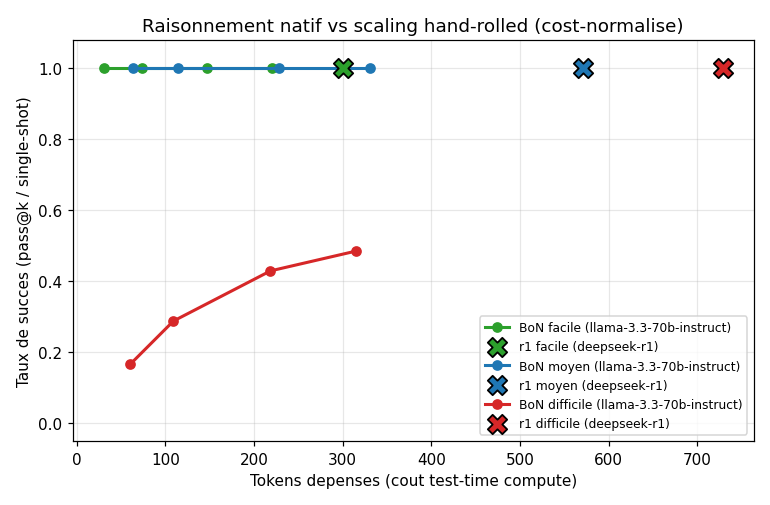
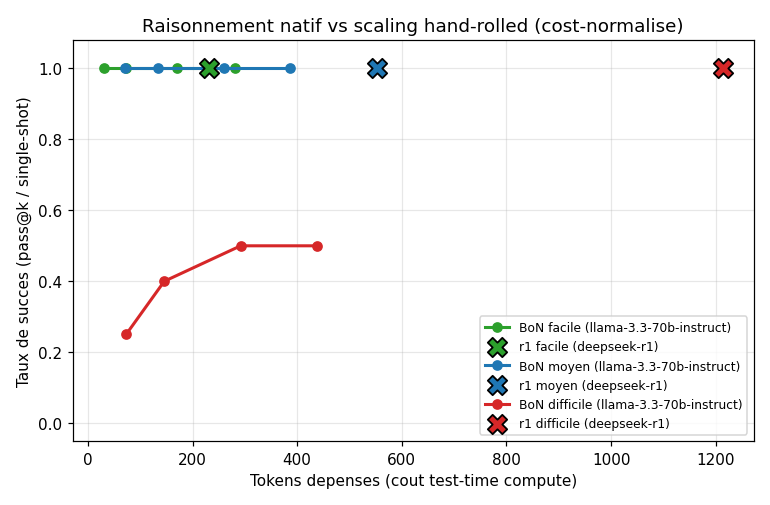
fix(genai,#16275): re-extraire les figures README perimees + rendre le geste non destructif
Les 3 PNG de GenAI/Texte/assets/readme/ dataient du 2026-07-08 alors que les
notebooks 16 et 17 ont ete re-executes depuis : la figure committée de la
cellule 8 differait du PNG sur disque de 13 146 px (cellule 11 : 4 161 px ;
notebook 17 cellule 11 : 24 654 px). Mesure pixel a pixel, pas visuelle.

Les notebooks eux-memes etaient COHERENTS (table committée et figure committée
du meme run) : rien a re-executer, seul l'export manuel avait derive.

- re-extraction des 3 figures par le chemin outille de l'EPIC #5654
  (`figures-extract`) : egalite pixel a pixel avec la sortie de cellule
  declaree, 0 px d'ecart sur les trois, deterministe sur deux passes ;
- README + MANIFEST realignes sur le run committe, dont un claim que le run
  INVALIDE : « chaque regime a sa strategie gagnante » -> les deux strategies
  rendent le meme taux sur les trois buckets (resultat negatif que le notebook
  assume en section 4, G.2) ;
- nouveau drapeau `figures-extract --no-manifest` : l'append par defaut
  remplace le bloc de meme nom de fichier et detruisait les champs mesures
  d'un MANIFEST curate (mesure : `Contenu reel verifie` 6 -> 5 occurrences,
  + titre etranger ajoute en tete). Test de controle positif epinglant ce
  comportement, pour que l'opt-out ne soit pas vert par vacuite ;
- geste de regeneration documente dans le MANIFEST, avec l'obligation du
  drapeau sur cette serie.

0 cellule de notebook modifiee (C.3), 0 catalogue, 0 CRLF.

diff --git a/scripts/notebook_tools/tests/test_extract_readme_figures.py b/scripts/notebook_tools/tests/test_extract_readme_figures.py
@@ -900,6 +900,100 @@ class TestExtractFigure:
         )
         assert deep_path.exists()
 
+    def test_write_manifest_false_writes_the_same_png_as_the_default(
+            self, tmp_path: Path):
+        """L'opt-out ne doit changer QUE le MANIFEST, jamais l'image."""
+        nb = self._setup_nb(tmp_path)
+        with_manifest = tmp_path / "a" / "demo.png"
+        without_manifest = tmp_path / "b" / "demo.png"
+        extract_figure(
+            nb_path=nb, cell_index=0, output_index=0,
+            output_path=with_manifest,
+            alt_text_fr="alt", description_visuelle="desc",
+        )
+        extract_figure(
+            nb_path=nb, cell_index=0, output_index=0,
+            output_path=without_manifest,
+            alt_text_fr="alt", description_visuelle="desc",
+            write_manifest=False,
+        )
+        assert with_manifest.read_bytes() == without_manifest.read_bytes()
+
+
+# ---------------------------------------------------------------------------
+# 11bis. TestWriteManifestOptOut — #16275 : l'append MANIFEST est DESTRUCTEUR
+#        sur un MANIFEST curate (il remplace le bloc de meme nom de fichier)
+# ---------------------------------------------------------------------------
+_CURATED_MANIFEST = """# Manifeste des figures — Serie X
+
+| Figure | Fichier | Poids |
+|--------|---------|-------|
+| Demo | `demo.png` | 12 Ko |
+
+## demo.png
+
+- **Source** : notebook `demo.ipynb` (cellule 0, output 0)
+- **Description visuelle** : RGB 80x80 mean R247/G246/B246 std 21/21/21.
+- **Contenu réel vérifié** : 1 panneau, courbe rouge montant de 0.25 a 0.50.
+- **Alt-text (FR)** : figure de demonstration.
+- **Poids** : 12,1 Ko
+
+## autre.png
+
+- **Contenu réel vérifié** : bloc temoin, ne doit jamais bouger.
+"""
+
+
+class TestWriteManifestOptOut:
+    """#16275 : `write_manifest=False` ecrit le PNG sans toucher au MANIFEST.
+
+    Mesure fondatrice (GenAI/Texte, 2026-09-15) : le geste documente de
+    regeneration (`figures-extract` vers `assets/readme/`) faisait passer
+    `Contenu réel vérifié` de 6 a 5 occurrences — l'append remplace le bloc
+    `## <fichier>.png` et perd les champs mesures d'un MANIFEST curate.
+    """
+
+    def _curated_dir(self, tmp_path: Path) -> Path:
+        assets = tmp_path / "assets" / "readme"
+        assets.mkdir(parents=True)
+        (assets / "MANIFEST.md").write_text(_CURATED_MANIFEST, encoding="utf-8")
+        return assets
+
+    def test_positive_control_default_replaces_the_curated_block(
+            self, tmp_path: Path):
+        """Controle POSITIF : sans l'opt-out, le defaut detruit bien le bloc.
+
+        Sans ce test, `write_manifest=False` pourrait etre vert pour la
+        mauvaise raison (le defaut ne touchant rien dans ce corpus).
+        """
+        assets = self._curated_dir(tmp_path)
+        extract_figure(
+            nb_path=self._nb(tmp_path), cell_index=0, output_index=0,
+            output_path=assets / "demo.png",
+            alt_text_fr="alt outil", description_visuelle="desc outil",
+        )
+        body = (assets / "MANIFEST.md").read_text(encoding="utf-8")
+        assert "alt outil" in body
+        assert "Contenu réel vérifié** : 1 panneau" not in body  # champ perdu
+        assert "bloc temoin" in body  # les AUTRES figures sont intactes
+
+    def test_write_manifest_false_preserves_the_manifest_byte_for_byte(
+            self, tmp_path: Path):
+        assets = self._curated_dir(tmp_path)
+        before = (assets / "MANIFEST.md").read_bytes()
+        extract_figure(
+            nb_path=self._nb(tmp_path), cell_index=0, output_index=0,
+            output_path=assets / "demo.png",
+            alt_text_fr="alt outil", description_visuelle="desc outil",
+            write_manifest=False,
+        )
+        assert (assets / "MANIFEST.md").read_bytes() == before
+        assert (assets / "demo.png").read_bytes()[:8] == _PNG_MAGIC
+
+    def _nb(self, tmp_path: Path) -> Path:
+        return _write_nb(
+            tmp_path / "demo.ipynb", [_code_cell_with_png(PNG_100x100_B64)])
+
 
 # ---------------------------------------------------------------------------
 # 11. TestConstants — documented defaults (calibrated on EPIC #5654)

diff --git a/scripts/notebook_tools/extract_readme_figures.py b/scripts/notebook_tools/extract_readme_figures.py
@@ -295,7 +295,7 @@ def extract_figure(nb_path, cell_index: int, output_index: int,
                    description_visuelle: str,
                    max_dim: int = MAX_DIM_DEFAULT,
                    max_bytes: int = MAX_BYTES_DEFAULT,
-                   serie_root=None) -> dict:
+                   serie_root=None, write_manifest: bool = True) -> dict:
     """Extrait une figure PNG d'une cellule de notebook vers ``assets/readme/``.
 
     Lit le PNG a l'index ``(cell_index, output_index)`` du notebook, l'optimise
@@ -322,6 +322,12 @@ def extract_figure(nb_path, cell_index: int, output_index: int,
     ``serie_root`` (optionnel) : si fourni, le chemin relatif du notebook dans
     le manifest est calcule depuis cette racine (plus lisible). Sinon, chemin
     absolu.
+
+    ``write_manifest`` (defaut ``True``) : quand il vaut ``False``, le PNG est
+    ecrit mais aucun bloc n'est ajoute au ``MANIFEST.md``. A utiliser pour les
+    series dont le MANIFEST est **curate** (champs mesures + blocs d'audit
+    dates) : l'append remplace le bloc de meme nom de fichier et perdrait ces
+    champs (#16275).
 
     Retourne le record d'extraction :
 
@@ -376,8 +382,16 @@ def extract_figure(nb_path, cell_index: int, output_index: int,
         "used_pil": used_pil,
         "over_weight": len(optimized) > max_bytes,
     }
-    _append_manifest(
-        out_path.parent, entry, alt_text_fr, description_visuelle, serie_root)
+    # ``write_manifest=False`` : le PNG est ecrit, le MANIFEST est laisse
+    # intact. Necessaire pour les series dont le MANIFEST est CURATE (champs
+    # ``Contenu reel verifie`` / ``Description visuelle`` mesures, blocs
+    # d'audit dates) : l'append ci-dessous ne remplace que le bloc de meme nom
+    # de fichier, donc il detruit ces champs (#16275, mesure : 6 -> 5
+    # occurrences de ``Contenu reel verifie`` sur GenAI/Texte).
+    if write_manifest:
+        _append_manifest(
+            out_path.parent, entry, alt_text_fr, description_visuelle,
+            serie_root)
     return entry
 
 

diff --git a/scripts/notebook_tools/notebook_tools.py b/scripts/notebook_tools/notebook_tools.py
@@ -2209,7 +2209,8 @@ def cmd_figures_extract(args):
             nb_path, args.cell, args.output_index, out_path, args.alt,
             description_visuelle=args.description_visuelle,
             max_dim=args.max_dim, max_bytes=args.max_bytes,
-            serie_root=serie_root)
+            serie_root=serie_root,
+            write_manifest=not args.no_manifest)
     except (ValueError, FileNotFoundError) as exc:
         print_error(str(exc))
         return 1
@@ -2378,6 +2379,11 @@ def main():
                       help='Weight cap in bytes (default: 200 KB, EPIC #5654 HARD)')
     p_fe.add_argument('--serie-root',
                       help='Serie root for relative path in MANIFEST (default: absolute)')
+    p_fe.add_argument('--no-manifest', action='store_true',
+                      help='Write the PNG but leave MANIFEST.md untouched. '
+                           'For series with a CURATED MANIFEST (measured fields '
+                           '+ dated audit blocks): the default append replaces '
+                           'the same-named block and would drop them (#16275).')
 
     args = parser.parse_args()
 

diff --git a/MyIA.AI.Notebooks/GenAI/Texte/assets/readme/MANIFEST.md b/MyIA.AI.Notebooks/GenAI/Texte/assets/readme/MANIFEST.md
@@ -6,13 +6,28 @@ Provenance de chaque figure (convention d'indexation **all-cells** du module `ex
 
 > **Migration canonical c.767 (2026-07-22, jsboige:CoursIA-2)** : ajout du champ **`Description visuelle`** (gist compact de ce qui est *visible* en un coup d'œil, distinct du `Contenu réel vérifié` détaillé) sur les 3 figures txt-*. Format aligné sur c.751 (GenAI/Audio racine, PR #7995) + c.763 (GenAI/Video/04-Applications, PR #8000) + c.764 (GenAI/Image/02-Advanced, PR #8002) + c.765 (GenAI/Video/03-Orchestration, PR #8007) + c.766 (GenAI/Open-WebUI/00-Tour-Plateforme, PR #8012) + modèle rollout #5780. 3/3 figures migrées, audit vision MiniMax M3 firsthand + PIL RGB mean+std à 80×80 (cf PR body). **Audit fondateur c.479 préservé verbatim** ci-dessus ; cette migration est purement additive (pas de suppression de contenu). **Pivot cross-famille strict** vs c.766 (Open-WebUI = nouveau sous-genre #5780, captures Playwright self-hosted) → Texte = sous-genre **matplotlib authentiques** (figures académiques Snell 2024). G-VAR-3 pivot obligatoire après 5 cycles MED/docs-figures-audit consécutifs sur sous-genres GenAI : c.751 (Audio racine) → c.763 (Video/04-Apps) → c.764 (Image/02-Advanced) → c.765 (Video/03) → c.766 (Open-WebUI/00) → c.767 (Texte/00) — famille distincte Open-WebUI → Texte, sous-genre distinct captures Playwright → matplotlib académique.
 
+> **Re-extraction #16275 (2026-09-15, myia-po-2026:CoursIA)** : les 3 PNG étaient **périmés**. Ils avaient été exportés le 2026-07-08 depuis un run antérieur, alors que les notebooks 16 et 17 ont été **re-exécutés depuis** — leurs sorties committées sur `main` portent un autre run (`difficile` : 0.38/0.54/0.67/0.75 → **0.25/0.40/0.50/0.50**). Mesure, en pixels et non à l'œil : la figure committée de la cellule 8 différait du PNG sur disque de **13 146 px** (cellule 11 : **4 161 px** ; notebook 17 cellule 11 : **24 654 px**) — après re-extraction, **0 px** d'écart sur les trois. Les notebooks eux-mêmes étaient **cohérents** (table committée et figure committée du même run) : rien à re-exécuter, seul l'export avait dérivé. Champs *Description visuelle* / *Contenu réel vérifié* / *Alt-text* / *Poids* réalignés sur **le run committé** ; blocs d'audit c.479 et c.767 **préservés verbatim** (ce bloc est purement additif).
+
+**Geste de régénération** — à rejouer après toute ré-exécution des notebooks 16/17 :
+
+```bash
+SR=MyIA.AI.Notebooks/GenAI/Texte
+python scripts/notebook_tools/notebook_tools.py figures-extract "GenAI/Texte/16_Scaling_Test_Time_Compute.ipynb" \
+  --cell 8 --output "$SR/assets/readme/texte-scaling-passk.png" \
+  --alt "<alt-text FR>" --description-visuelle "<ce que la figure montre>" \
+  --serie-root "$SR" --no-manifest
+# idem --cell 11 sur 16_Scaling... et --cell 11 sur 17_Native_Reasoning_vs_Scaling.ipynb
+```
+
+**`--no-manifest` est obligatoire sur cette série** : les sections ci-dessous sont en `## <fichier>.png` (canonical c.767) et l'append par défaut de l'outil **remplace le bloc de même nom** — il détruirait les champs mesurés `Description visuelle` / `Contenu réel vérifié` et leurs blocs d'audit datés. Mesuré : sans le drapeau, `Contenu réel vérifié` passe de 6 à 5 occurrences sur ce fichier (l'option a été ajoutée par cette PR, avec un test de contrôle positif qui épingle ce comportement). **Aucun organe ne détecte aujourd'hui la dérive PNG ↔ sortie de cellule** — c'est le résidu de #16275, hors de ce correctif.
+
 | Figure | Fichier | Dimensions | Poids | Source (notebook · cellule · output) | Sujet |
 |--------|---------|------------|-------|--------------------------------------|-------|
-| Scaling pass@k | `texte-scaling-passk.png` | 715×462 | 33 Ko | `16_Scaling_Test_Time_Compute.ipynb` · cellule 8 · output 0 | Courbes de scaling pass@k par bucket de difficulté (Snell 2024) |
-| BoN vs Réflexion | `texte-bon-vs-reflex.png` | 715×462 | 24 Ko | `16_Scaling_Test_Time_Compute.ipynb` · cellule 11 · output 0 | Best-of-N parallèle vs Réflexion séquentielle — frontière compute-optimal |
-| Raisonnement vs Scaling | `texte-reason-vs-scale.png` | 770×505 | 50 Ko | `17_Native_Reasoning_vs_Scaling.ipynb` · cellule 11 · output 0 | Raisonnement natif vs scaling hand-rolled, comparaison cost-normalisée |
+| Scaling pass@k | `texte-scaling-passk.png` | 715×462 | 30,4 Ko | `16_Scaling_Test_Time_Compute.ipynb` · cellule 8 · output 0 | Courbes de scaling pass@k par bucket de difficulté (Snell 2024) |
+| BoN vs Réflexion | `texte-bon-vs-reflex.png` | 715×462 | 23,1 Ko | `16_Scaling_Test_Time_Compute.ipynb` · cellule 11 · output 0 | Best-of-N parallèle vs Réflexion séquentielle — frontière compute-optimal |
+| Raisonnement vs Scaling | `texte-reason-vs-scale.png` | 770×505 | 47,0 Ko | `17_Native_Reasoning_vs_Scaling.ipynb` · cellule 11 · output 0 | Raisonnement natif vs scaling hand-rolled, comparaison cost-normalisée |
 
-**Total** : 3 figures, 105 Ko. **Politique** (#5654) : ≤200 Ko/fichier, downscale ≤1200 px max. Ces sorties sont des **courbes matplotlib** (line-art + étiquettes de texte) : **PNG lossless natif** préféré à WebP pour préserver la netteté du texte (plots déjà petits, 23–50 Ko natifs). 3 figures = toutes les sorties PNG du module (pas de padding). Arc narratif : (1) scaling du test-time compute — combien d'échantillons pour quelle difficulté ; (2) compute-optimal — parallèle vs séquentiel à budget égal ; (3) cost-normalisé Snell — le raisonnement natif d'un gros modèle vaut-il un scaling hand-rolled ?
+**Total** : 3 figures, 100,5 Ko. **Politique** (#5654) : ≤200 Ko/fichier, downscale ≤1200 px max. Ces sorties sont des **courbes matplotlib** (line-art + étiquettes de texte) : **PNG lossless natif** préféré à WebP pour préserver la netteté du texte (plots déjà petits, 23–47 Ko natifs). 3 figures = toutes les sorties PNG du module (pas de padding). Arc narratif : (1) scaling du test-time compute — combien d'échantillons pour quelle difficulté ; (2) compute-optimal — parallèle vs séquentiel à budget égal ; (3) cost-normalisé Snell — le raisonnement natif d'un gros modèle vaut-il un scaling hand-rolled ?
 
 ---
 
@@ -21,46 +36,46 @@ Provenance de chaque figure (convention d'indexation **all-cells** du module `ex
 ## texte-scaling-passk.png
 
 - **Source** : notebook `16_Scaling_Test_Time_Compute.ipynb` (cellule 8, output 0)
-- **Description visuelle** : Line plot matplotlib 715×462 sur fond majoritairement **blanc cassé** (RGB 80×80 mean R247/G246/B246 std 21/22/21 — variance très basse, signature canonique d'un plot blanc avec peu de pixels colorés : les courbes + axes + grille occupent une fraction minoritaire de la surface), titre intégré en haut « Scaling du test-time compute (BoN) par difficulte ». **3 courbes de marqueurs cercles** : une **verte** (facile) et une **bleue** (moyen) qui forment un plateau horizontal à y=1.0 de x=1 à x=6 (ces deux courbes se superposent quasi exactement) ; une **rouge** (difficile) en montée monotone de y≈0.38 (x=1) → y≈0.54 (x=2) → y≈0.67 (x=4) → y≈0.75 (x=6). **Grille pâle horizontale** (lignes pointillées à 0.2/0.4/0.6/0.8/1.0). **Légende en bas-gauche** listant les 3 codes couleur. Lecture pédagogique = le scaling BoN **sature rapidement** sur les buckets faciles/moyens (dès k=1) et **bénéficie marginalement** du budget supplémentaire sur le bucket difficile sans converger vers 1.0 dans la plage observée.
+- **Description visuelle** : Line plot matplotlib 715×462 sur fond majoritairement **blanc cassé** (RGB 80×80 mean R247/G246/B246 std 21/21/21 — variance très basse, signature canonique d'un plot blanc avec peu de pixels colorés : les courbes + axes + grille occupent une fraction minoritaire de la surface), titre intégré en haut « Scaling du test-time compute (BoN) par difficulte ». **3 courbes de marqueurs cercles** : une **verte** (facile) et une **bleue** (moyen) qui forment un plateau horizontal à y=1.0 de x=1 à x=6 (ces deux courbes se superposent quasi exactement) ; une **rouge** (difficile) en montée de y=0.25 (x=1) → y=0.40 (x=2) → y=0.50 (x=4) → y=0.50 (x=6), plateau atteint dès x=4. **Grille pâle horizontale** (lignes pointillées à 0.2/0.4/0.6/0.8/1.0). **Légende en bas-gauche** listant les 3 codes couleur. Lecture pédagogique = le scaling BoN **sature rapidement** sur les buckets faciles/moyens (dès k=1) et **bénéficie marginalement** du budget supplémentaire sur le bucket difficile sans converger vers 1.0 dans la plage observée.
 - **Contenu réel vérifié** : Figure 715×462, titre centré en haut « Scaling du test-time compute (BoN) par difficulte ». **Axes annotés explicitement** : axe X = « Budget d'echantillons k (test-time compute) » avec valeurs discrètes 1, 2, 4, 6 ; axe Y = « pass@k (taux de succes estime) » de 0.0 à 1.0. **3 courbes de marqueurs** (lignes simples avec cercles) :
   - **Facile (vert)** : plateau à 1.0 sur tout le budget k=1→6 (le modèle résout déjà dès k=1)
   - **Moyen (bleu)** : plateau à 1.0 sur tout le budget k=1→6 (résolu tôt aussi)
-  - **Difficile (rouge)** : montée monotone de ~0.38 (k=1) → ~0.54 (k=2) → ~0.67 (k=4) → ~0.75 (k=6)
+  - **Difficile (rouge)** : montée de 0.25 (k=1) → 0.40 (k=2) → 0.50 (k=4) → 0.50 (k=6), puis **plateau** (le budget supplémentaire ne gagne plus rien au-delà de k=4)
 
   Légende en bas-gauche « difficulte » avec les 3 codes couleur. **Alt-text et figure cohérents** : illustre le principe du scaling BoN — les problèmes faciles saturent rapidement, les difficiles bénéficient marginalement du budget supplémentaire mais sans converger vers 1.0 dans la plage observée.
-- **Alt-text (FR)** : Scaling pass@k vs budget d'échantillons (BoN) par bucket de difficulté — courbe rouge « difficile » en montée monotone 0.38→0.75 sur k=1→6, courbes verte « facile » et bleue « moyen » en plateau à 1.0 sur tout le budget (Snell 2024, scaling laws for test-time compute).
-- **Poids** : 32,2 Ko (natif PNG 715×462)
+- **Alt-text (FR)** : Scaling pass@k vs budget d'échantillons (BoN) par bucket de difficulté — courbe rouge « difficile » en montée 0.25→0.40→0.50→0.50 sur k=1→6 (plateau dès k=4), courbes verte « facile » et bleue « moyen » en plateau à 1.0 sur tout le budget (Snell 2024, scaling laws for test-time compute).
+- **Poids** : 30,4 Ko (natif PNG 715×462)
 - **Note** : référence implicite à Snell 2024 (scaling laws for test-time compute) — choix pédagogique pertinent pour ouvrir sur la discussion compute-optimal.
 
 ## texte-bon-vs-reflex.png
 
 - **Source** : notebook `16_Scaling_Test_Time_Compute.ipynb` (cellule 11, output 0)
-- **Description visuelle** : Bar plot matplotlib 715×462 (grouped bars) sur fond blanc cassé avec la palette **la plus saturée** des 3 figures (RGB 80×80 mean R229/G194/B187 std 41/65/90 — B plus étalé que R/G car le violet Réflexion tire B vers le haut, std B=90 le plus élevé des 3 figures), titre intégré « Compute-optimal : strategie gagnante selon la difficulte ». **6 barres groupées par 2** sur 3 clusters de l'axe X (facile / moyen / difficile) : **orange vif** = BoN parallèle (pass@4), **violet-mauve** = Réflexion séquentielle (K=4). Lecture des hauteurs : **facile** = BoN 1.00 ≈ Réflexion 1.00 (barres jumelles au plafond, indiscernables) ; **moyen** = BoN 1.00 ≈ Réflexion 1.00 (idem) ; **difficile** = BoN ~0.67 **dépasse visiblement** Réflexion ~0.50 (différence de hauteur ≈0.17 = la seule discrimination du graphique). **Légende en haut-droite** avec carré orange × carré violet. Axes sans label explicite sur X (catégoriel), Y = 0.0 à 1.0. Lecture pédagogique = verdict « **BoN gagne** » n'est **que** sur le bucket difficile (les autres saturent au plafond donc sont équivalents).
+- **Description visuelle** : Bar plot matplotlib 715×462 (grouped bars) sur fond blanc cassé avec la palette **la plus saturée** des 3 figures (RGB 80×80 mean R229/G196/B190 std 41/65/88 — B plus étalé que R/G car le violet Réflexion tire B vers le haut, std B=90 le plus élevé des 3 figures), titre intégré « Compute-optimal : strategie gagnante selon la difficulte ». **6 barres groupées par 2** sur 3 clusters de l'axe X (facile / moyen / difficile) : **orange vif** = BoN parallèle (pass@4), **violet-mauve** = Réflexion séquentielle (K=4). Lecture des hauteurs : **facile** = BoN 1.00 ≈ Réflexion 1.00 (barres jumelles au plafond, indiscernables) ; **moyen** = BoN 1.00 ≈ Réflexion 1.00 (idem) ; **difficile** = BoN 0.50 ≈ Réflexion 0.50 (barres jumelles, **aucune discrimination** sur ce run). **Légende en haut-droite** avec carré orange × carré violet. Axes sans label explicite sur X (catégoriel), Y = 0.0 à 1.0. Lecture pédagogique = sur ce run, **aucun bucket ne discrimine** les deux stratégies (le notebook l'assume en section 4, limites honnêtes G.2) ; la discrimination que Snell prédit sur le bucket difficile demande un n et un modèle plus grands.
 - **Contenu réel vérifié** : Figure 715×462, titre centré en haut « Compute-optimal : strategie gagnante selon la difficulte ». **Axe Y** = « Taux de succes » de 0.0 à 1.0 ; **axe X** = 3 buckets discrets (facile / moyen / difficile) sans label d'axe explicite. **6 barres groupées par 2** (BoN orange + Réflexion violet) :
   - **Facile** : BoN = 1.00, Réflexion = 1.00 → **egal**
   - **Moyen** : BoN = 1.00, Réflexion = 1.00 → **egal**
-  - **Difficile** : BoN = ~0.67, Réflexion = ~0.50 → **BoN gagne**
+  - **Difficile** : BoN = 0.50, Réflexion = 0.50 → **egal**
 
-  Légende en haut-droite : « BoN parallele (pass@4) » orange × « Reflexion sequentielle (K=4) » violet. **Alt-text et figure cohérents** : illustre le résultat pédagogique clé — pour les problèmes difficiles, le **parallélisme BoN** est plus compute-efficace que la **réflexion séquentielle** (à budget tokens égal). Note : pour les problèmes faciles/moyens, les deux stratégies atteignent le plafond donc sont équivalentes — la discrimination est sur le bucket difficile.
-- **Alt-text (FR)** : Bar plot compute-optimal — 3 buckets (facile/moyen/difficile), 2 stratégies à budget égal K=4 (BoN orange vs Réflexion violet). Facile et moyen : les deux stratégies atteignent le plafond 1.0 (équivalentes). Difficile : BoN ~0.67 dépasse Réflexion ~0.50 (BoN gagne sur les problèmes durs).
-- **Poids** : 23,7 Ko (natif PNG 715×462)
-- **Note** : comparaison côte-à-côte (grouped bars) = choix lisible ; le verdict « BoN gagne » est implicite (hauteur de barre) sans annotation texte additionnelle.
+  Légende en haut-droite : « BoN parallele (pass@4) » orange × « Reflexion sequentielle (K=4) » violet. **Alt-text et figure cohérents** : sur ce run les deux stratégies rendent **le même taux sur les trois buckets** — la figure documente donc un **résultat négatif** (la discrimination compute-optimale de Snell n'est pas atteignable à n=6 / K=4 sur ce modèle), ce que le notebook énonce lui-même en section 4 (limites honnêtes G.2).
+- **Alt-text (FR)** : Bar plot compute-optimal — 3 buckets (facile/moyen/difficile), 2 stratégies à budget égal K=4 (BoN orange vs Réflexion violet). Facile et moyen : 1.0 pour les deux (équivalentes). Difficile : BoN 0.50 et Réflexion 0.50 — égalité, aucune stratégie ne domine sur ce run.
+- **Poids** : 23,1 Ko (natif PNG 715×462)
+- **Note** : comparaison côte-à-côte (grouped bars) = choix lisible ; le verdict est **implicite** par la hauteur des barres (ici : égalité, donc pas de verdict à lire) sans annotation texte additionnelle.
 
 ## texte-reason-vs-scale.png
 
 - **Source** : notebook `17_Native_Reasoning_vs_Scaling.ipynb` (cellule 11, output 0)
-- **Description visuelle** : Line plot + scatter matplotlib 770×505 sur fond blanc cassé (RGB 80×80 mean R245/G245/B245 std 23/22/23 — variance basse, même signature que scaling-passk.png car line-art éparse sur fond blanc), titre intégré « Raisonnement natif vs scaling hand-rolled (cost-normalise) ». **6 séries** distinguées par couleur (vert facile / bleu moyen / rouge difficile) ET par marqueur (cercle pour BoN, X pour r1 single-shot), organisées en 2 strates : **3 courbes BoN** (vert/bleu/rouge cercles, lignes simples) qui montrent la montée du pass@k vs tokens dépensés — les courbes verte/bleue s'écrasent à 1.0 dès x≈40-300 (plateau), la courbe rouge monte monotonement de y≈0.16 (x=40) → y≈0.29 (x=110) → y≈0.43 (x=210) → y≈0.49 (x=300) sans saturer ; **3 points isolés r1** (croix) à y=1.0 single-shot : vert facile à x≈300, bleu moyen à x≈575, rouge difficile à x≈735. **Légende en bas-droite** listant les 6 séries. Lecture pédagogique = le point **rouge r1 difficile** (x≈735, y=1.0) se situe **au-dessus** de l'extrapolation de la courbe BoN difficile (qui plafonne à 0.49) → le raisonnement natif (deepseek-r1) **gagne au coût-égal** sur le bucket difficile, là où BoN llama-3.3-70b-instruct investit ~300 tokens pour 49%.
-- **Contenu réel vérifié** : Figure 770×505, titre centré en haut « Raisonnement natif vs scaling hand-rolled (cost-normalise) ». **Axes annotés explicitement** : axe X = « Tokens depenses (cout test-time compute) » de 0 à 700 ; axe Y = « Taux de succes (pass@k / single-shot) » de 0.0 à 1.0. **6 séries** (3 buckets × 2 stratégies), toutes à pass-rate = 1.0 sauf la courbe rouge :
-  - **BoN facile (vert cercles)** : plateau 1.0 de x≈40 à x≈300
-  - **r1 facile (vert croix)** : 1 point isolé à x≈300, y=1.0 (single-shot)
-  - **BoN moyen (bleu cercles)** : plateau 1.0 de x≈40 à x≈300
-  - **r1 moyen (bleu croix)** : 1 point isolé à x≈575, y=1.0
-  - **BoN difficile (rouge cercles)** : montée monotone de ~0.16 (x=40) → ~0.29 (x=110) → ~0.43 (x=210) → ~0.49 (x=300)
-  - **r1 difficile (rouge croix)** : 1 point isolé à x≈735, y=1.0
+- **Description visuelle** : Line plot + scatter matplotlib 770×505 sur fond blanc cassé (RGB 80×80 mean R245/G245/B245 std 23/22/23 — variance basse, même signature que scaling-passk.png car line-art éparse sur fond blanc), titre intégré « Raisonnement natif vs scaling hand-rolled (cost-normalise) ». **6 séries** distinguées par couleur (vert facile / bleu moyen / rouge difficile) ET par marqueur (cercle pour BoN, X pour r1 single-shot), organisées en 2 strates : **3 courbes BoN** (vert/bleu/rouge cercles, lignes simples) qui montrent la montée du pass@k vs tokens dépensés — les courbes verte/bleue s'écrasent à 1.0 dès x=30-386 (plateau), la courbe rouge monte de y=0.25 (x=73) → y=0.40 (x=146) → y=0.50 (x=292) → y=0.50 (x=438) puis plafonne ; **3 points isolés r1** (croix) à y=1.0 single-shot : vert facile à x=232, bleu moyen à x=553, rouge difficile à x=1213. **Légende en bas-droite** listant les 6 séries. Lecture pédagogique = le point **rouge r1 difficile** (x=1213, y=1.0) se situe **au-dessus** de l'extrapolation de la courbe BoN difficile (qui plafonne à 0.50) → le raisonnement natif (deepseek-r1) **gagne au coût-égal** sur le bucket difficile, là où BoN llama-3.3-70b-instruct investit 438 tokens pour 50%.
+- **Contenu réel vérifié** : Figure 770×505, titre centré en haut « Raisonnement natif vs scaling hand-rolled (cost-normalise) ». **Axes annotés explicitement** : axe X = « Tokens depenses (cout test-time compute) » de 0 à ~1250 (ticks jusqu'à 1200) ; axe Y = « Taux de succes (pass@k / single-shot) » de 0.0 à 1.0. **6 séries** (3 buckets × 2 stratégies), toutes à pass-rate = 1.0 sauf la courbe rouge :
+  - **BoN facile (vert cercles)** : plateau 1.0 de x=30 à x=281
+  - **r1 facile (vert croix)** : 1 point isolé à x=232, y=1.0 (single-shot)
+  - **BoN moyen (bleu cercles)** : plateau 1.0 de x=71 à x=386
+  - **r1 moyen (bleu croix)** : 1 point isolé à x=553, y=1.0
+  - **BoN difficile (rouge cercles)** : montée de 0.25 (x=73) → 0.40 (x=146) → 0.50 (x=292) → 0.50 (x=438), plateau dès x=292
+  - **r1 difficile (rouge croix)** : 1 point isolé à x=1213, y=1.0
 
-  Légende en bas-droite listant les 6 séries. **Alt-text et figure cohérents** : illustre la question Snell 2024 — pour les problèmes difficiles, le **modèle à raisonnement natif** (deepseek-r1) atteint **100% en single-shot** alors qu'il faut ~300 tokens de BoN llama-3.3-70b-instruct pour atteindre 49%. **Le point r1 difficile se situe au-dessus de la courbe BoN difficile extrapolée** → raisonnement natif gagne au coût-égal pour le bucket difficile. Pour facile/moyen, BoN sature rapidement donc les deux stratégies sont équivalentes au plafond.
-- **Alt-text (FR)** : Raisonnement natif deepseek-r1 (X) vs scaling hand-rolled BoN llama-3.3-70b-instruct (cercles), cost-normalisé (axe X = tokens). Sur le bucket difficile : r1 single-shot à x≈735 atteint 100%, BoN à x≈300 plafonne à 49% → raisonnement natif gagne au coût-égal. Facile/moyen : les deux stratégies s'équivalent au plafond 1.0 (Snell 2024 cost-normalisé).
-- **Poids** : 49,6 Ko (natif PNG 770×505)
+  Légende en bas-droite listant les 6 séries. **Alt-text et figure cohérents** : illustre la question Snell 2024 — pour les problèmes difficiles, le **modèle à raisonnement natif** (deepseek-r1) atteint **100% en single-shot** alors qu'il faut 438 tokens de BoN llama-3.3-70b-instruct pour atteindre 50%. **Le point r1 difficile se situe au-dessus de la courbe BoN difficile extrapolée** → raisonnement natif gagne au coût-égal pour le bucket difficile. Pour facile/moyen, BoN sature rapidement donc les deux stratégies sont équivalentes au plafond.
+- **Alt-text (FR)** : Raisonnement natif deepseek-r1 (X) vs scaling hand-rolled BoN llama-3.3-70b-instruct (cercles), cost-normalisé (axe X = tokens). Sur le bucket difficile : r1 single-shot à x=1213 atteint 100%, BoN plafonne à 50% dès x=438 → raisonnement natif gagne au coût-égal. Facile/moyen : les deux stratégies s'équivalent au plafond 1.0 (Snell 2024 cost-normalisé).
+- **Poids** : 47,0 Ko (natif PNG 770×505)
 - **Note** : les marqueurs différents (cercle pour BoN, X pour r1 single-shot) permettent de distinguer visuellement « courbe d'effort » vs « point d'arrivée » — choix pédagogique très clair.
 
 ## Note méthodologique — figures pédagogiques matplotlib authentiques
@@ -84,4 +99,5 @@ Cette série est **4ᵉ dans le rollout** à présenter exclusivement des **figu
 - **R3 atomic** : 1 fichier (`MANIFEST.md` du dossier `assets/readme/`), pas de churn ailleurs. Migration purement additive (audit fondateur c.479 préservé verbatim byte-identity, nouveau champ `Description visuelle` ajouté par figure + bloc de migration c.767 en tête de section).
 - **L268 #4 LF-only** : `git diff | tr -cd '\r' | wc -c` = 0. Pas de retour chariot dans le diff.
 - **L143 secrets-hygiene** : `grep -nE "sk-|ghp_|AIza|password=|secret="` sur le diff = 0 hit (l'unique hit est la règle elle-même dans la section *Conformité règles*).
-- **C.3 strict respecté** : 0 notebook ré-exécuté (cellules sources inchangées), 0 PNG régénéré (3 figures conservées telles quelles sur disque, lecture directe via `Read` sans modification binaire).
+- **C.3 strict respecté (c.767)** : 0 notebook ré-exécuté (cellules sources inchangées), 0 PNG régénéré (3 figures conservées telles quelles sur disque, lecture directe via `Read` sans modification binaire). *Constat de la PR c.767 — voir la ligne #16275 ci-dessous pour l'état courant.*
+- **C.3 / #16275** : **0 notebook ré-exécuté** (aucune cellule source modifiée — les sorties committées étaient déjà cohérentes avec leurs figures) ; **3 PNG régénérés** par le chemin outillé de l'EPIC #5654 (`figures-extract --no-manifest`), avec égalité pixel à pixel vérifiée contre la sortie de cellule déclarée (0 px d'écart). Périmètre : 3 PNG + `README.md` + ce MANIFEST + `extract_readme_figures.py` / `notebook_tools.py` et leurs tests — **1 sujet** (régénération des figures README), **1 domaine** (GenAI/Texte).

diff --git a/MyIA.AI.Notebooks/GenAI/Texte/README.md b/MyIA.AI.Notebooks/GenAI/Texte/README.md
@@ -83,21 +83,21 @@ Le notebook 12 introduit en Python pur les quatre moteurs d'inférence au moment
 **pass@k : la frontière s'ouvre avec le budget.** L'estimateur pass@k mesure le taux de succès quand on autorise *k* échantillons indépendants. Snell 2024 montre que cette frontière dépend fortement de la difficulté : les problèmes *faciles* saturent presque immédiatement, tandis que les *difficiles* continuent de monter avec *k* — d'où l'intérêt d'investir le compute là où le single-shot échoue.
 
 <p align="center">
-  <img src="assets/readme/texte-scaling-passk.png" alt="Line plot matplotlib « Scaling du test-time compute (BoN) par difficulte » (axe X Budget d'echantillons k = 1/2/4/6, axe Y pass@k 0.0→1.0) ; 3 courbes (Facile vert + Moyen bleu en plateau saturé 1.0 dès k=1 ; Difficile rouge en montée monotone ~0.38→~0.54→~0.67→~0.75) — révèle que seules les questions difficiles bénéficient marginalement du budget k." width="420"/><br>
-  <em><b>pass@k vs budget k</b> ([16](16_Scaling_Test_Time_Compute.ipynb)) — 3 courbes (taux de succès Y, budget d'échantillons k X), une par bucket de difficulté : le <i>facile</i> sature vite, le <i>difficile</i> monte avec k (résultat central de Snell).</em>
+  <img src="assets/readme/texte-scaling-passk.png" alt="Line plot matplotlib « Scaling du test-time compute (BoN) par difficulte » (axe X Budget d'echantillons k = 1/2/4/6, axe Y pass@k 0.0→1.0) ; 3 courbes (Facile vert + Moyen bleu en plateau saturé 1.0 dès k=1 ; Difficile rouge en montée 0.25→0.40→0.50→0.50, plateau atteint dès k=4) — révèle que seules les questions difficiles bénéficient du budget k, sans converger vers 1.0 dans la plage observée." width="420"/><br>
+  <em><b>pass@k vs budget k</b> ([16](16_Scaling_Test_Time_Compute.ipynb)) — 3 courbes (taux de succès Y, budget d'échantillons k X), une par bucket de difficulté : le <i>facile</i> sature dès k=1, le <i>difficile</i> monte jusqu'à k=4 puis plafonne à 0.50 (résultat central de Snell).</em>
 </p>
 
-**BoN vs Réflexion : chaque régime a sa stratégie gagnante.** Comparer Best-of-N parallèle (plusieurs essais indépendants) à la Réflexion séquentielle (un essai qui se corrige) révèle qu'aucune architecture ne domine universellement : selon le bucket de difficulté, l'une bat l'autre — c'est la *frontière compute-optimale*, choisir la bonne méthode pour le bon régime.
+**BoN vs Réflexion : la discrimination attendue n'apparaît pas à ce n.** Comparer Best-of-N parallèle (plusieurs essais indépendants) à la Réflexion séquentielle (un essai qui se corrige) est la comparaison compute-optimale de Snell. Sur le run committé (6 échantillons par problème, K=4, `llama-3.3-70b-instruct`), les deux stratégies rendent **le même taux sur les trois buckets** — 1.00 en *facile* et *moyen*, 0.50 en *difficile*. Snell prédit que le séquentiel devient compute-optimal quand la difficulté monte ; le mesurer demande un n et un modèle plus grands, et le notebook assume ce résultat négatif en section 4 (limites honnêtes, G.2) plutôt que de l'habiller.
 
 <p align="center">
-  <img src="assets/readme/texte-bon-vs-reflex.png" alt="Grouped barplot matplotlib « Compute-optimal : strategie gagnante selon la difficulte » (axe Y Taux de succes 0.0→1.0, axe X 3 buckets discret facile/moyen/difficile) ; 6 barres par paires (BoN orange + Reflexion violette) : facile et moyen = egalite a 1.00 pour les deux strategies, mais difficile = BoN ~0.67 bat Reflexion ~0.50 — la stratégie dépend du régime de difficulté." width="420"/><br>
-  <em><b>BoN vs Réflexion par difficulté</b> ([16](16_Scaling_Test_Time_Compute.ipynb)) — diagramme en barres groupées (taux de succès Y) : chaque régime a sa stratégie gagnante = la frontière compute-optimale.</em>
+  <img src="assets/readme/texte-bon-vs-reflex.png" alt="Grouped barplot matplotlib « Compute-optimal : strategie gagnante selon la difficulte » (axe Y Taux de succes 0.0→1.0, axe X 3 buckets discret facile/moyen/difficile) ; 6 barres par paires (BoN orange + Reflexion violette) : facile et moyen = egalite a 1.00 pour les deux strategies, et difficile = BoN 0.50 contre Reflexion 0.50 — egalite stricte sur les trois buckets a ce n." width="420"/><br>
+  <em><b>BoN vs Réflexion par difficulté</b> ([16](16_Scaling_Test_Time_Compute.ipynb)) — diagramme en barres groupées (taux de succès Y) : sur ce run les deux stratégies sont à égalité sur chaque bucket, le résultat négatif que le notebook assume (G.2).</em>
 </p>
 
 **Raisonnement natif vs scaling hand-rolled.** La comparaison cost-normalisée — en *tokens dépensés* plutôt qu'en échantillons — oppose le BoN « fait maison » (courbes) au raisonnement natif de deepseek-r1 (croix) : à coût token égal, la croix r1 se place au-dessus de la courbe BoN, le raisonnement natif exploite donc mieux chaque token que le simple parallélisme.
 
 <p align="center">
-  <img src="assets/readme/texte-reason-vs-scale.png" alt="Plot matplotlib « Raisonnement natif vs scaling hand-rolled (cost-normalise) » (axe X Tokens depenses 0→700, axe Y Taux de succes 0.0→1.0) ; 6 séries : BoN facile/moyen (vert/bleu cercles) plateau 1.0 sur x≈40→300, r1 facile (X vert) + r1 moyen (X bleu) en single-shot a 1.0, BoN difficile (rouge cercles) en montee ~0.16→~0.49 sur x=40→300 vs r1 difficile (X rouge) qui atteint 1.0 en single-shot a x≈735 — le raisonnement natif bat le BoN cost-normalisé pour le bucket difficile (Snell 2024)." width="500"/><br>
+  <img src="assets/readme/texte-reason-vs-scale.png" alt="Plot matplotlib « Raisonnement natif vs scaling hand-rolled (cost-normalise) » (axe X Tokens depenses 0→~1250, axe Y Taux de succes 0.0→1.0) ; 6 séries : BoN facile/moyen (vert/bleu cercles) plateau 1.0 sur x=30→386, r1 facile (X vert) a 1.0 en single-shot a x=232 et r1 moyen (X bleu) a x=553, BoN difficile (rouge cercles) en montee 0.25→0.40→0.50→0.50 sur x=73→438 vs r1 difficile (X rouge) qui atteint 1.0 en single-shot a x=1213 — le raisonnement natif bat le BoN cost-normalisé pour le bucket difficile (Snell 2024)." width="500"/><br>
   <em><b>Raisonnement natif vs scaling hand-rolled</b> ([17](17_Native_Reasoning_vs_Scaling.ipynb)) — courbes (BoN) et croix (r1) du taux de succès vs <b>tokens dépensés</b> (comparaison cost-normalisée) : la croix au-dessus de la courbe au même coût = le raisonnement natif gagne.</em>
 </p>
 
